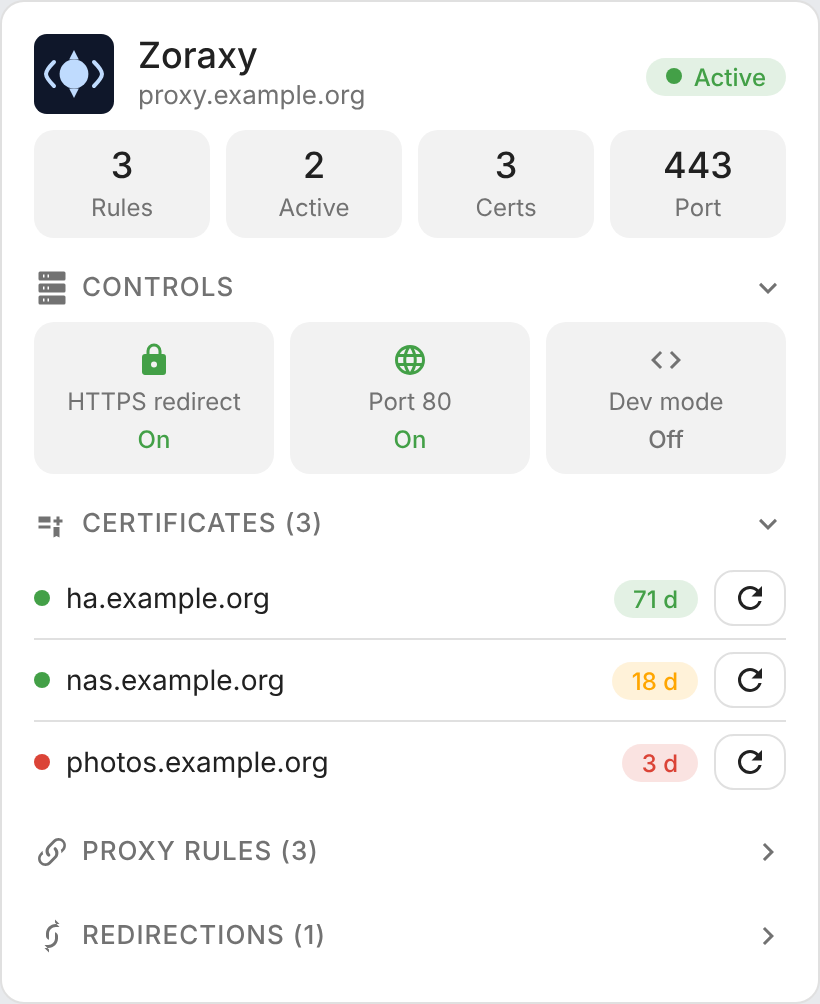
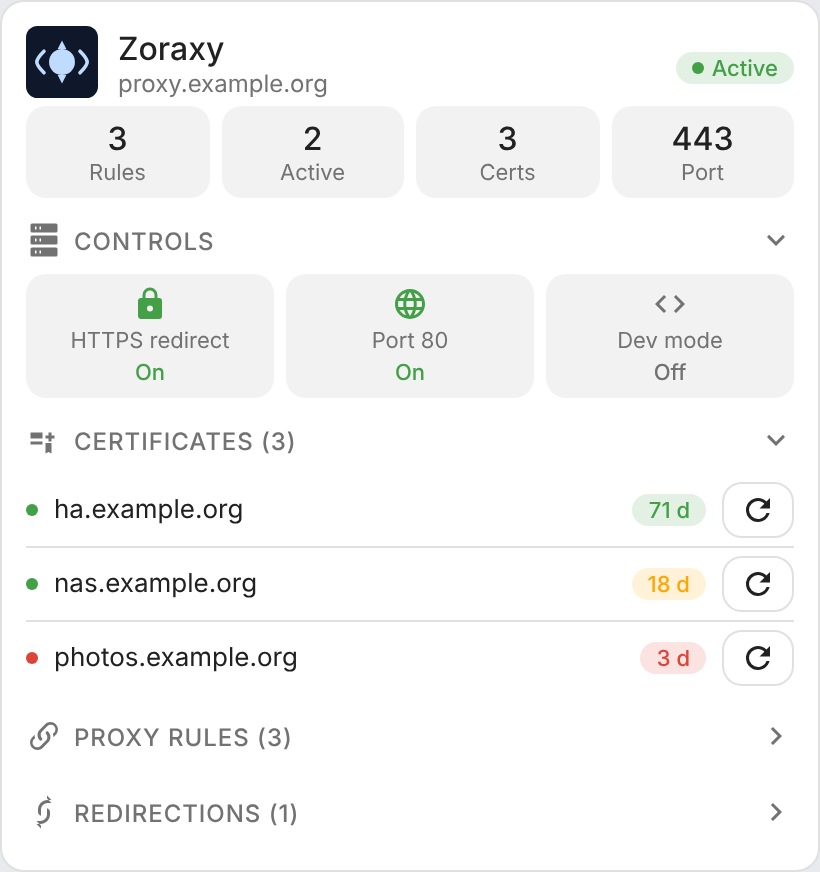
Compact layout with the same information (1.4.0) (#5)
Claude-Session: https://claude.ai/code/session_01FyVHJkuQopwM66ytqwsrgB

diff --git a/custom_components/zoraxy/frontend/zoraxy-card.js b/custom_components/zoraxy/frontend/zoraxy-card.js
@@ -1,4 +1,4 @@
-const ZORAXY_CARD_VERSION = '1.3.1';
+const ZORAXY_CARD_VERSION = '1.4.0';
 
 class ZoraxyCard extends HTMLElement {
 
@@ -68,41 +68,41 @@ class ZoraxyCard extends HTMLElement {
     ha-card { overflow: hidden; }
     .icon { width: 18px; height: 18px; fill: currentColor; flex: none; }
     .ok { --c: var(--zx-ok); } .warn { --c: var(--zx-warn); } .crit { --c: var(--zx-crit); } .idle { --c: var(--secondary-text-color); }
-    .dot { width: 8px; height: 8px; border-radius: 50%; background: var(--c, var(--zx-ok)); flex: none; display: inline-block; }
-    .chip { display: inline-flex; align-items: center; gap: 6px; padding: 2px 10px; border-radius: 12px; font-size: 12px; font-weight: 500;
+    .dot { width: 6px; height: 6px; border-radius: 50%; background: var(--c, var(--zx-ok)); flex: none; display: inline-block; }
+    .chip { display: inline-flex; align-items: center; gap: 4px; padding: 1px 8px; border-radius: 12px; font-size: 11px; font-weight: 500;
             background: color-mix(in srgb, var(--c, var(--zx-ok)) 15%, transparent); color: var(--c, var(--zx-ok)); white-space: nowrap; }
-    .header { display: flex; align-items: center; gap: 12px; padding: 16px 16px 8px; }
-    .logo { width: 40px; height: 40px; flex: none; }
+    .header { display: flex; align-items: center; gap: 10px; padding: 12px 12px 4px; }
+    .logo { width: 36px; height: 36px; flex: none; }
     .titles { flex: 1; min-width: 0; }
-    .name { font-size: 18px; font-weight: 500; line-height: 1.25; color: var(--primary-text-color); text-decoration: none;
+    .name { font-size: 16px; font-weight: 500; line-height: 1.25; color: var(--primary-text-color); text-decoration: none;
             white-space: nowrap; overflow: hidden; text-overflow: ellipsis; display: block; }
     a.name:hover { text-decoration: underline; }
-    .sub { font-size: 13px; color: var(--secondary-text-color); white-space: nowrap; overflow: hidden; text-overflow: ellipsis; }
-    .content { padding: 0 16px 16px; display: flex; flex-direction: column; gap: 16px; }
-    .metrics { display: grid; grid-template-columns: repeat(auto-fit, minmax(72px, 1fr)); gap: 8px; }
-    .tile { display: flex; flex-direction: column; align-items: center; gap: 2px; padding: 8px 10px; border-radius: 10px; min-width: 0;
+    .sub { font-size: 12px; color: var(--secondary-text-color); white-space: nowrap; overflow: hidden; text-overflow: ellipsis; }
+    .content { padding: 0 12px 12px; display: flex; flex-direction: column; gap: 12px; }
+    .metrics { display: grid; grid-template-columns: repeat(auto-fit, minmax(72px, 1fr)); gap: 6px; }
+    .tile { display: flex; flex-direction: column; align-items: center; gap: 0; padding: 6px 8px; border-radius: 10px; min-width: 0;
             background: var(--secondary-background-color, rgba(127,127,127,.08)); }
-    .mv { font-size: 18px; font-weight: 500; color: var(--primary-text-color); }
-    .ml { font-size: 12px; color: var(--secondary-text-color); }
+    .mv { font-size: 16px; font-weight: 500; color: var(--primary-text-color); }
+    .ml { font-size: 11px; color: var(--secondary-text-color); }
     .sec-header { display: flex; justify-content: space-between; align-items: center; cursor: pointer; margin-bottom: 8px; }
-    .section-title { display: flex; align-items: center; gap: 6px; font-size: 13px; font-weight: 500; text-transform: uppercase;
+    .section-title { display: flex; align-items: center; gap: 6px; font-size: 12px; font-weight: 500; text-transform: uppercase;
                      letter-spacing: .04em; color: var(--secondary-text-color); }
     .sec-arrow { color: var(--secondary-text-color); display: flex; transition: transform .2s ease; }
     .sec-arrow.closed { transform: rotate(-90deg); }
-    .controls { display: grid; grid-template-columns: repeat(3, 1fr); gap: 8px; }
-    .ctrl { display: flex; flex-direction: column; align-items: center; gap: 4px; padding: 10px 6px; border-radius: 10px; cursor: pointer;
+    .controls { display: grid; grid-template-columns: repeat(3, 1fr); gap: 6px; }
+    .ctrl { display: flex; flex-direction: column; align-items: center; gap: 2px; padding: 6px 4px; border-radius: 10px; cursor: pointer;
             border: none; width: 100%; font-family: inherit; color: var(--primary-text-color);
             background: var(--secondary-background-color, rgba(127,127,127,.08)); transition: background .15s; }
     .ctrl .icon { color: var(--c, var(--secondary-text-color)); }
     .ctrl:hover { background: color-mix(in srgb, var(--zx-accent) 15%, var(--secondary-background-color, transparent)); }
-    .cl { font-size: 12px; color: var(--secondary-text-color); text-align: center; }
-    .cs { font-size: 12px; font-weight: 500; color: var(--c); }
-    .row { display: flex; align-items: center; justify-content: space-between; padding: 6px 0; gap: 8px; font-size: 14px; }
+    .cl { font-size: 11px; color: var(--secondary-text-color); text-align: center; }
+    .cs { font-size: 11px; font-weight: 500; color: var(--c); }
+    .row { display: flex; align-items: center; justify-content: space-between; padding: 4px 0; gap: 8px; font-size: 13px; }
     .row + .row { border-top: 1px solid var(--divider-color); }
     .row-left { display: flex; align-items: center; gap: 8px; min-width: 0; }
     .row-right { display: flex; align-items: center; gap: 8px; flex-shrink: 0; }
     .row-label { overflow: hidden; text-overflow: ellipsis; white-space: nowrap; }
-    .row-sub { font-size: 12px; color: var(--secondary-text-color); max-width: 130px; overflow: hidden; text-overflow: ellipsis; white-space: nowrap; }
+    .row-sub { font-size: 11px; color: var(--secondary-text-color); max-width: 130px; overflow: hidden; text-overflow: ellipsis; white-space: nowrap; }
     .domain-link { cursor: pointer; }
     .domain-link:hover { text-decoration: underline; }
     .empty { color: var(--secondary-text-color); font-size: 13px; padding: 4px 0; margin: 0; }

diff --git a/CHANGELOG.md b/CHANGELOG.md
@@ -1,5 +1,11 @@
 # Changelog
 
+## 1.4.0
+
+### Changes
+- More compact layout with the same information, like the other ha-* cards: 12 px card padding, 36 px header icon, 16 px name and 12 px subtitle, 11 px pills, tighter tiles and sections.
+- 36 px logo, lower metric tiles (16 px figures), controls and certificate rows.
+
 ## 1.3.1
 
 ### Changes
